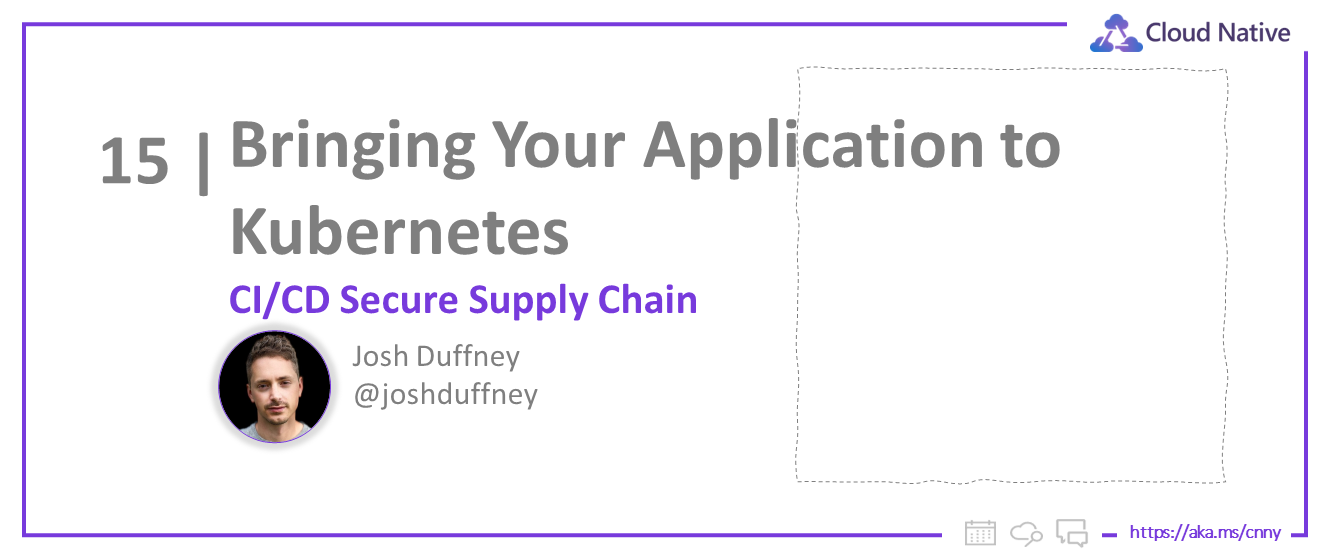
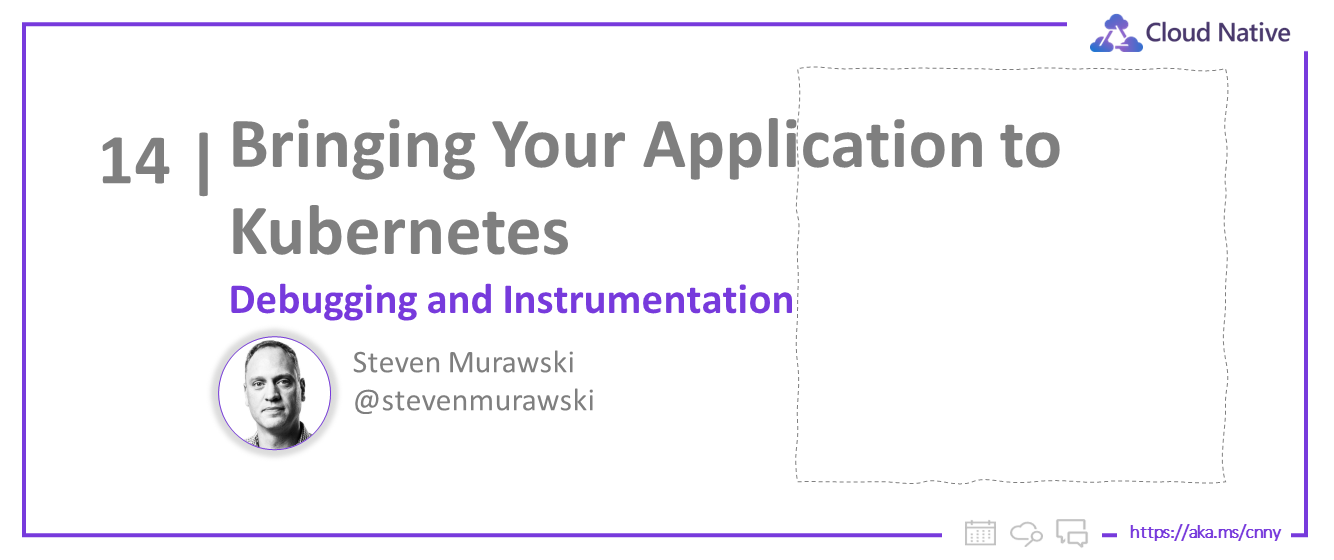
week 3 day 4

Changed region(s): [[0.1537, 0.4857, 0.6147, 0.8196], [0.0922, 0.2429, 0.1229, 0.3339]]

diff --git a/website/blog-cnny/2023-02-09/index.md b/website/blog-cnny/2023-02-09/index.md
@@ -1,0 +1,264 @@
+---
+slug: bring-your-app-day-4
+title: 3-4. Bringing Your Application to Kubernetes - Debugging and Instrumentation
+authors: [steven]
+draft: false
+hide_table_of_contents: false
+toc_min_heading_level: 2
+toc_max_heading_level: 3
+keywords: [pods, deployments, kubernetes, aks, container-apps, cloud-native, github-actions, ci-cd]
+image: https://azure.github.io/Cloud-Native/img/og/30-14.png
+description: "Using Bridge to Kubernetes to debug your application."
+tags: [cloud-native, 30daysofcloudnative, zero-to-hero, ask-the-expert, azure-kubernetes-service]
+---
+
+<head>
+  <meta name="twitter:url"
+    content="https://azure.github.io/Cloud-Native/cnny-2023/bring-your-app-day-4" />
+  <meta name="twitter:title"
+    content="3-4. Bringing Your Application to Kubernetes - Debugging and Instrumentation" />
+  <meta name="twitter:description"
+    content="Using Bridge to Kubernetes to debug your application." />
+  <meta name="twitter:image"
+    content="https://azure.github.io/Cloud-Native/img/og/30-14.png" />
+  <meta name="twitter:card" content="summary_large_image" />
+  <meta name="twitter:creator"
+    content="@stevenmurawski" />
+  <meta name="twitter:site" content="@AzureAdvocates" />
+  <link rel="canonical"
+    href="https://azure.github.io/Cloud-Native/cnny-2023/bring-your-app-day-4" />
+</head>
+
+Welcome to `Day 4 of Week 3` of #CloudNativeNewYear!
+
+The theme for this week is Bringing Your Application to Kubernetes. Yesterday we exposed the eShopOnWeb app so that customers can reach it over the internet using a custom domain name and TLS. Today we'll explore the topic of debugging and instrumentation.
+
+:::tip Ask the Experts Thursday, February 9th at 9 AM PST
+
+[Join us for a live Q&A with Experts from the Azure Kubernetes Service product team!](https://aka.ms/cnny/ate)
+
+:::
+
+:::tip Friday, February 10th at 11 AM PST
+
+Join us for a live demo and let us answer your questions.
+
+[We'll be live on YouTube walking through today's (and the rest of this week's) demos](https://aka.ms/cnny/live-coding).  Join us Friday, February 10th and bring your questions!
+
+:::
+
+## What We'll Cover
+ * Debugging
+ * Bridge To Kubernetes
+ * Instrumentation
+ * Resources: For self-study!
+
+
+<!-- ************************************* -->
+<!--  AUTHORS: ONLY UPDATE BELOW THIS LINE -->
+<!-- ************************************* -->
+
+## Debugging
+
+Debugging applications in a Kubernetes cluster can be challenging for several reasons:
+
+* **Complexity:** Kubernetes is a complex system with many moving parts, including pods, nodes, services, and config maps, all of which can interact in unexpected ways and cause issues.
+* **Distributed Environment:** Applications running in a Kubernetes cluster are often distributed across multiple nodes, which makes it harder to determine the root cause of an issue.
+* **Logging and Monitoring:** Debugging an application in a Kubernetes cluster requires access to logs and performance metrics, which can be difficult to obtain in a large and dynamic environment.
+* **Resource Management:** Kubernetes manages resources such as CPU and memory, which can impact the performance and behavior of applications. Debugging resource-related issues requires a deep understanding of the Kubernetes resource model and the underlying infrastructure.
+* **Dynamic Nature:** Kubernetes is designed to be dynamic, with the ability to add and remove resources as needed. This dynamic nature can make it difficult to reproduce issues and debug problems.
+
+However, there are many tools and practices that can help make debugging applications in a Kubernetes cluster easier, such as using centralized logging, monitoring, and tracing solutions, and following best practices for managing resources and deployment configurations.
+
+There's also another great tool in our toolbox - [Bridge to Kubernetes](https://learn.microsoft.com/visualstudio/bridge/overview-bridge-to-kubernetes?WT.mc_id=containers-84290-stmuraws).
+
+## Bridge to Kubernetes
+
+Bridge to Kubernetes is a great tool for microservice development and debugging applications without having to locally replicate all the required microservices.
+
+Bridge to Kubernetes works with [Visual Studio](https://marketplace.visualstudio.com/items?itemName=ms-azuretools.mindaro&WT.mc_id=containers-84290-stmuraws) or [Visual Studio Code](https://marketplace.visualstudio.com/items?itemName=mindaro.mindaro&WT.mc_id=containers-84290-stmuraws).
+
+We'll walk through using it with Visual Studio Code.
+
+### Connecting Bridge to Kubernetes to Our Cluster
+
+#### Ensure your AKS cluster is the default for `kubectl`
+
+If you've recently spun up a new AKS cluster or you have been working with a different cluster, you may need to change what cluster credentials you have configured.
+
+If it's a new cluster, we can use:
+
+```shell
+RESOURCE_GROUP=<YOUR RESOURCE GROUP NAME>
+CLUSTER_NAME=<YOUR AKS CLUSTER NAME>
+az aks get-credentials az aks get-credentials --resource-group $RESOURCE_GROUP --name $CLUSTER_NAME
+```
+
+#### Open the command palette 
+
+Open the command palette and find `Bridge to Kubernetes: Configure`.  You may need to start typing the name to get it to show up.
+
+![The command palette for Visual Studio Code is open and the first item is Bridge to Kubernetes: Configure](../../static/img/cnny23/1-configure-bridge-to-kubernetes.png)
+
+#### Pick the service you want to debug
+
+Bridge to Kubernetes will redirect a service for you.  Pick the service you want to redirect, in this case we'll pick `web`.
+
+![Selecting the `web` service to redirect in Visual Studio Code](../../static/img/cnny23/2-configure-bridge-to-kubernetes.png)
+
+#### Identify the port your application runs on
+
+Next, we'll be prompted to identify what port our application will run on locally.  For this application it'll be 5001, but that's just specific to this application (and the default for ASP.NET 7, I believe).
+
+![Setting port 5001 as the port to redirect to the `web` Kubernetes service in Visual Studio Code](../../static/img/cnny23/3-configure-bridge-to-kubernetes.png)
+
+#### Pick a debug configuration to extend
+
+Bridge to Kubernetes has a couple of ways to run - it can inject it's setup and teardown to your existing debug configurations.  We'll pick `.NET Core Launch (web)`.
+
+![Telling Bridge to Kubernetes to use the .NET Core Launch (web) debug configuration in Visual Studio Code](../../static/img/cnny23/4-configure-bridge-to-kubernetes.png)
+
+#### Forward Traffic for All Requests
+
+The last prompt you'll get in the configuration is about how you want Bridge to Kubernetes to handle re-routing traffic.  The default is that all requests into the service will get your local version.  
+
+You can also redirect specific traffic.  Bridge to Kubernetes will set up a subdomain and route specific traffic to your local service, while allowing other traffic to the deployed service.
+
+![Allowing the launch of Endpoint Manager on Windows](../../static/img/cnny23/5-configure-bridge-to-kubernetes.png)
+
+### Using Bridge to Kubernetes to Debug Our Service
+
+Now that we've configured Bridge to Kubernetes, we see that tasks and a new launch configuration have been added.
+
+Added to `.vscode/tasks.json`:
+
+```yml
+        {
+            "label": "bridge-to-kubernetes.resource",
+            "type": "bridge-to-kubernetes.resource",
+            "resource": "web",
+            "resourceType": "service",
+            "ports": [
+                5001
+            ],
+            "targetCluster": "aks1",
+            "targetNamespace": "default",
+            "useKubernetesServiceEnvironmentVariables": false
+        },
+        {
+            "label": "bridge-to-kubernetes.compound",
+            "dependsOn": [
+                "bridge-to-kubernetes.resource",
+                "build"
+            ],
+            "dependsOrder": "sequence"
+        }
+```
+
+And added to `.vscode/launch.json`:
+
+```yml
+{
+        "name": ".NET Core Launch (web) with Kubernetes",
+        "type": "coreclr",
+        "request": "launch",
+        "preLaunchTask": "bridge-to-kubernetes.compound",
+        "program": "${workspaceFolder}/src/Web/bin/Debug/net7.0/Web.dll",
+        "args": [],
+        "cwd": "${workspaceFolder}/src/Web",
+        "stopAtEntry": false,
+        "env": {
+            "ASPNETCORE_ENVIRONMENT": "Development",
+            "ASPNETCORE_URLS": "http://+:5001"
+        },
+        "sourceFileMap": {
+            "/Views": "${workspaceFolder}/Views"
+        }
+    }
+```
+
+#### Launch the debug configuration
+
+We can start the process with the `.NET Core Launch (web) with Kubernetes` launch configuration in the `Debug` pane in Visual Studio Code.
+
+![Launch the `.NET Core Launch (web) with Kubernetes` from the Debug pane in Visual Studio Code](../../static/img/cnny23/1-debug-with-bridge-to-kubernetes.png)
+
+
+#### Enable the Endpoint Manager
+
+Part of this process includes a local service to help manage the traffic routing and your hosts file.  This will require admin or `sudo` privileges.  On Windows, you'll get a prompt like:
+
+![Prompt to launch the endpoint manager.](../../static/img/cnny23/2-debug-with-bridge-to-kubernetes.png)
+
+#### Access your Kubernetes cluster "locally"
+
+Bridge to Kubernetes will set up a tunnel (thanks to port forwarding) to your local workstation and create local endpoints for the other Kubernetes hosted services in your cluster, as well as pretending to be a pod in that cluster (for the application you are debugging).
+
+![Output from Bridge To Kubernetes setup task.](../../static/img/cnny23/3-debug-with-bridge-to-kubernetes.png)
+
+After making the connection to your Kubernetes cluster, the launch configuration will continue. In this case, we'll make a debug build of the application and attach the debugger.  (This process may cause the terminal in VS Code to scroll with build output. You can find the Bridge to Kubernetes output with the local IP addresses and ports in the Output pane for Bridge to Kubernetes.)
+
+You can set breakpoints, use your debug console, set watches, run tests against your local version of the service.
+
+#### Exploring the Running Application Environment
+
+One of the cool things that Bridge to Kubernetes does for our debugging experience is bring the environment configuration that our deployed pod would inherit.  When we launch our app, it'll see configuration and secrets that we'd expect our pod to be running with.  
+
+To test this, we'll set a breakpoint in our application's start up to see what SQL Server is being used.  We'll set a breakpoint at `src/Infrastructure/Dependencies.cs` on line 32.
+
+Then, we will start debugging the application with Bridge to Kubernetes.  When it hits the breakpoint, we'll open the Debug pane and type `configuration.GetConnectionString("CatalogConnection")`.
+
+When we run locally (not with Bridge to Kubernetes), we'd see:
+
+```
+configuration.GetConnectionString("CatalogConnection")
+ "Server=(localdb)\\mssqllocaldb;Integrated Security=true;Initial Catalog=Microsoft.eShopOnWeb.CatalogDb;"
+```
+
+But, with Bridge to Kubernetes we see something more like (yours will vary based on the password ):
+
+```
+configuration.GetConnectionString("CatalogConnection")
+ "Server=db;Database=Microsoft.eShopOnWeb.CatalogDb;User Id=sa;Password=*****************;TrustServerCertificate=True;"
+```
+
+![Debugging our local application connected to Kubernetes.](../../static/img/cnny23/2-debug-with-bridge-to-kubernetes.png)
+
+We can see that the database server configured is based on our `db` service and the password is pulled from our secret in Azure KeyVault (via AKS).
+
+This helps us run our local application just like it was actually in our cluster.
+
+### Going Further
+
+Bridge to Kubernetes also supports more advanced scenarios and, as you need to start routing traffic around inside your cluster, may require you to modify your application to pass along a `kubernetes-route-as` header to help ensure that traffic for your debugging workloads is properly handled.  The docs go into much greater detail about that.
+
+## Instrumentation
+
+Now that we've figured out our debugging story, we'll need to ensure that we have the right context clues to find where we need to debug or to give us a better idea of how well our microservices are running.
+
+### Logging and Tracing
+
+Logging and tracing become even more critical in Kubernetes, where your application could be running in a number of pods across different nodes. When you have an issue, in addition to the normal application data, you'll want to know what pod and what node had the issue, what the state of those resources were (were you resource constrained or were shared resources unavailable?), and if autoscaling is enabled, you'll want to know if a scale event has been triggered. There are a multitude of other concerns based on your application and the environment you maintain.
+
+Given these informational needs, it's crucial to revisit your existing logging and instrumentation. Most frameworks and languages have extensible logging, tracing, and instrumentation libraries that you can iteratively add information to, such as pod and node states, and ensuring that requests can be traced across your microservices. This will pay you back time and time again when you have to troubleshoot issues in your existing environment.
+
+### Centralized Logging
+
+To enhance the troubleshooting process further, it's important to implement centralized logging to consolidate logs from all your microservices into a single location. This makes it easier to search and analyze logs when you're troubleshooting an issue. 
+
+### Automated Alerting
+
+Additionally, implementing automated alerting, such as sending notifications when specific conditions occur in the logs, can help you detect issues before they escalate.
+
+### End to end Visibility
+
+End-to-end visibility is also essential in understanding the flow of requests and responses between microservices in a distributed system. With end-to-end visibility, you can quickly identify bottlenecks and slowdowns in the system, helping you to resolve issues more efficiently.
+
+## Resources
+
+* [Use Bridge to Kubernetes in VS Code](https://learn.microsoft.com/visualstudio/bridge/bridge-to-kubernetes-vs-code?WT.mc_id=containers-84290-stmuraws)
+* [Bridge to Kubernetes Visual Studio Extension](https://marketplace.visualstudio.com/items?itemName=ms-azuretools.mindaro&WT.mc_id=containers-84290-stmuraws) 
+* [Bridge to Kubernetes Visual Studio Code Extension](https://marketplace.visualstudio.com/items?itemName=mindaro.mindaro&WT.mc_id=containers-84290-stmuraws).
+
+* [Kubernetes monitoring and logging](https://learn.microsoft.com/azure/architecture/aws-professional/eks-to-aks/monitoring?WT.mc_id=containers-84290-stmuraws)
+* [Monitor a microservices architecture in Azure Kubernetes Service (AKS)](https://learn.microsoft.com/azure/architecture/microservices/logging-monitoring?WT.mc_id=containers-84290-stmuraws)
